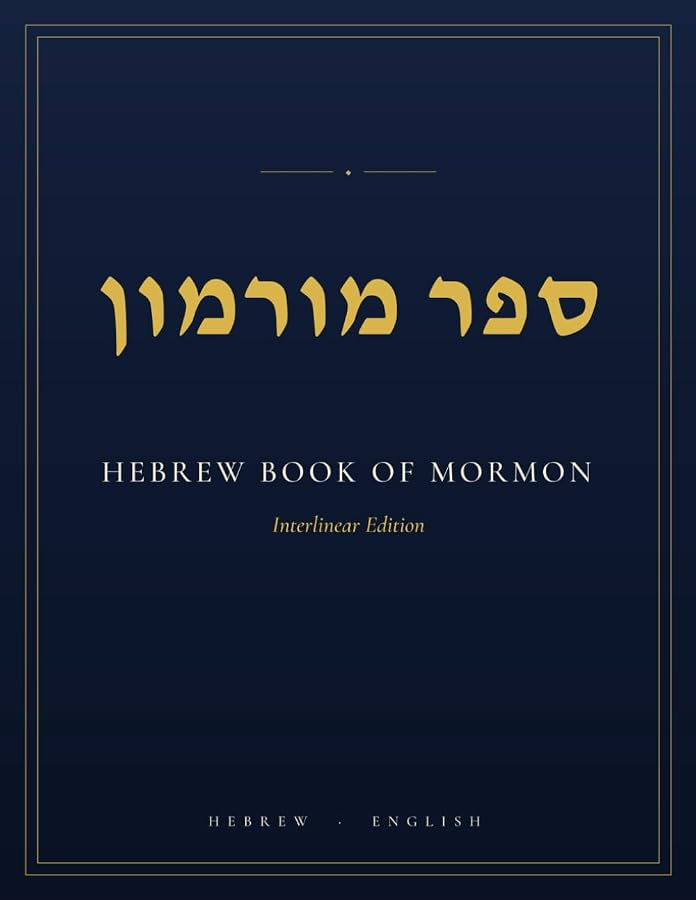
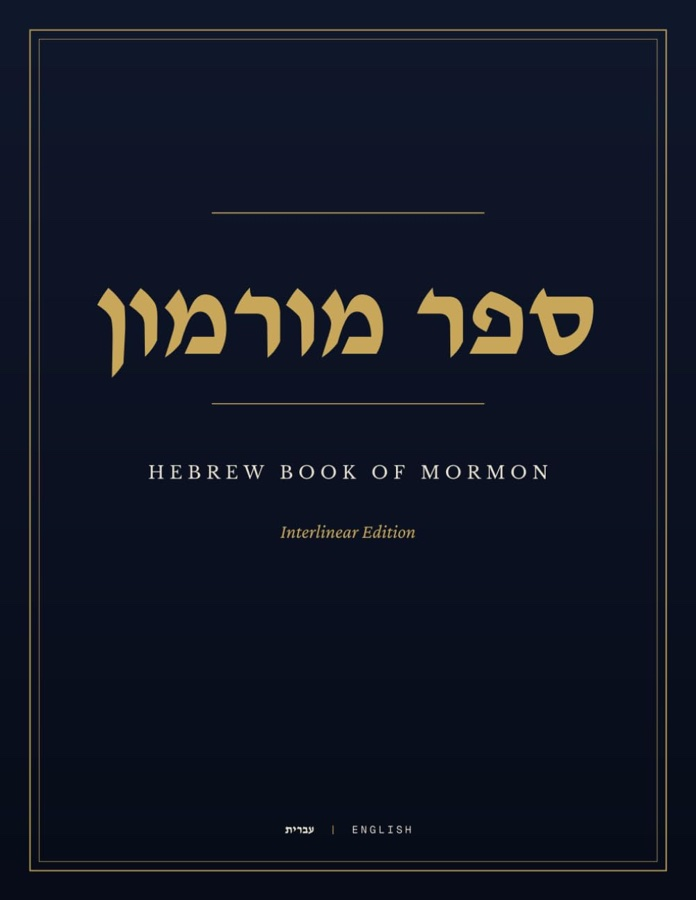
In Print: the Interlinear and Full Hebrew covers from the Amazon listings
The two fronts changed on Amazon (Interlinear: new title rules and the
עברית | ENGLISH foot; Full Hebrew: the scroll-book logo). Both taken from
the listing images at the site's 900px height; the Dual and Triple fronts
match the listings already and are untouched. Cache versions bumped in
editions.js, the service worker's precache list, and on the six page heads
whose share image is a cover.

diff --git a/in-print.html b/in-print.html
@@ -22,7 +22,7 @@ html.sw-in-app .landing-update-note { display: none; }
 <meta property="og:title" content="Sefer Mormon in Print — the Hebrew Book of Mormon editions">
 <meta property="og:description" content="Five printed editions of the Hebrew Book of Mormon: interlinear, full Hebrew, footnote hardcover, dual language, and the triple combination.">
 <meta property="og:type" content="website">
-<meta property="og:image" content="https://sefermormon.com/bom/images/cover-interlinear.jpg">
+<meta property="og:image" content="https://sefermormon.com/bom/images/cover-interlinear.jpg?v=6">
 <meta property="og:site_name" content="Hebrew Interlinear Standard Works">
 <style>
 /* One long page, no reader chrome. The cards are .ed-* in reader.css. */
@@ -55,7 +55,7 @@ html.sw-in-app .landing-update-note { display: none; }
       </p>
 
 <!-- editions:start (generated from editions.js by tools/build_static_pages.js — do not edit) -->
-<div class="ed-grid"><a class="ed-card" href="https://www.amazon.com/dp/B0GVZFM6YR" target="_blank" rel="noopener"><span class="ed-cover"><img src="bom/images/cover-interlinear.jpg?v=5" alt="Hebrew Book of Mormon Interlinear Edition" width="696" height="900" loading="lazy"></span><span class="ed-title">Interlinear Edition</span><span class="ed-format">Softcover · 8.5 × 11 in</span><span class="ed-blurb">The whole Book of Mormon with its English gloss set under every Hebrew word, two columns to a large page. The edition this site’s interlinear view is printed from.</span><span class="ed-buy">Buy on Amazon →</span></a><a class="ed-card" href="https://www.amazon.com/dp/B0DVTJC9HJ" target="_blank" rel="noopener"><span class="ed-cover"><img src="bom/images/cover-hebrew.jpg?v=5" alt="Hebrew Book of Mormon" width="600" height="900" loading="lazy"></span><span class="ed-title">Full Hebrew Edition</span><span class="ed-format">Softcover · 6 × 9 in</span><span class="ed-blurb">The Hebrew text alone, pointed, verse by verse, in a reader’s volume. Nothing on the page but the Book of Mormon in the Hebrew of the prophets.</span><span class="ed-buy">Buy on Amazon →</span></a><a class="ed-card" href="https://www.lulu.com/shop/christopher-lambe/%D7%A1%D7%A4%D7%A8-%D7%9E%D7%95%D7%A8%D7%9E%D7%95%D7%9F/hardcover/product-2m87weq.html" target="_blank" rel="noopener"><span class="ed-cover"><img src="bom/images/cover-hardcover.jpg?v=3" alt="Hebrew Book of Mormon, footnote edition — blue linen hardcover with dust jacket" width="578" height="900" loading="lazy"></span><span class="ed-title">Footnote Edition</span><span class="ed-format">Hardcover · Blue linen · Dust jacket</span><span class="ed-blurb">The Hebrew text with the translator’s footnotes, bound in blue linen under a dust jacket. The edition for the shelf.</span><span class="ed-buy">Buy on Lulu →</span></a><a class="ed-card" href="https://www.amazon.com/dp/B0GGQZG9K9" target="_blank" rel="noopener"><span class="ed-cover"><img src="bom/images/cover-dual.jpg?v=2" alt="Dual Language Book of Mormon" width="629" height="900" loading="lazy"></span><span class="ed-title">Dual Language Edition</span><span class="ed-format">Softcover · 7 × 10 in</span><span class="ed-blurb">Hebrew on the left page and the English on the right, verse for verse, for reading the two side by side.</span><span class="ed-buy">Buy on Amazon →</span></a><a class="ed-card" href="https://www.amazon.com/dp/B0H11CV516" target="_blank" rel="noopener"><span class="ed-cover"><img src="bom/images/cover-triple.jpg?v=5" alt="Triple Combination" width="600" height="900" loading="lazy"></span><span class="ed-title">Triple Combination</span><span class="ed-format">Softcover</span><span class="ed-blurb">The Book of Mormon, the Doctrine and Covenants and the Pearl of Great Price in Hebrew, bound as one volume.</span><span class="ed-buy">Buy on Amazon →</span></a></div>
+<div class="ed-grid"><a class="ed-card" href="https://www.amazon.com/dp/B0GVZFM6YR" target="_blank" rel="noopener"><span class="ed-cover"><img src="bom/images/cover-interlinear.jpg?v=6" alt="Hebrew Book of Mormon Interlinear Edition" width="696" height="900" loading="lazy"></span><span class="ed-title">Interlinear Edition</span><span class="ed-format">Softcover · 8.5 × 11 in</span><span class="ed-blurb">The whole Book of Mormon with its English gloss set under every Hebrew word, two columns to a large page. The edition this site’s interlinear view is printed from.</span><span class="ed-buy">Buy on Amazon →</span></a><a class="ed-card" href="https://www.amazon.com/dp/B0DVTJC9HJ" target="_blank" rel="noopener"><span class="ed-cover"><img src="bom/images/cover-hebrew.jpg?v=6" alt="Hebrew Book of Mormon" width="600" height="900" loading="lazy"></span><span class="ed-title">Full Hebrew Edition</span><span class="ed-format">Softcover · 6 × 9 in</span><span class="ed-blurb">The Hebrew text alone, pointed, verse by verse, in a reader’s volume. Nothing on the page but the Book of Mormon in the Hebrew of the prophets.</span><span class="ed-buy">Buy on Amazon →</span></a><a class="ed-card" href="https://www.lulu.com/shop/christopher-lambe/%D7%A1%D7%A4%D7%A8-%D7%9E%D7%95%D7%A8%D7%9E%D7%95%D7%9F/hardcover/product-2m87weq.html" target="_blank" rel="noopener"><span class="ed-cover"><img src="bom/images/cover-hardcover.jpg?v=3" alt="Hebrew Book of Mormon, footnote edition — blue linen hardcover with dust jacket" width="578" height="900" loading="lazy"></span><span class="ed-title">Footnote Edition</span><span class="ed-format">Hardcover · Blue linen · Dust jacket</span><span class="ed-blurb">The Hebrew text with the translator’s footnotes, bound in blue linen under a dust jacket. The edition for the shelf.</span><span class="ed-buy">Buy on Lulu →</span></a><a class="ed-card" href="https://www.amazon.com/dp/B0GGQZG9K9" target="_blank" rel="noopener"><span class="ed-cover"><img src="bom/images/cover-dual.jpg?v=2" alt="Dual Language Book of Mormon" width="629" height="900" loading="lazy"></span><span class="ed-title">Dual Language Edition</span><span class="ed-format">Softcover · 7 × 10 in</span><span class="ed-blurb">Hebrew on the left page and the English on the right, verse for verse, for reading the two side by side.</span><span class="ed-buy">Buy on Amazon →</span></a><a class="ed-card" href="https://www.amazon.com/dp/B0H11CV516" target="_blank" rel="noopener"><span class="ed-cover"><img src="bom/images/cover-triple.jpg?v=5" alt="Triple Combination" width="600" height="900" loading="lazy"></span><span class="ed-title">Triple Combination</span><span class="ed-format">Softcover</span><span class="ed-blurb">The Book of Mormon, the Doctrine and Covenants and the Pearl of Great Price in Hebrew, bound as one volume.</span><span class="ed-buy">Buy on Amazon →</span></a></div>
 <script type="application/ld+json">{"@context":"https://schema.org","@type":"ItemList","name":"Sefer Mormon in print","url":"https://sefermormon.com/in-print.html","itemListElement":[{"@type":"ListItem","position":1,"item":{"@type":"Book","name":"Hebrew Book of Mormon: Interlinear Edition","alternateName":"Sefer Mormon — Interlinear Edition","author":{"@type":"Person","name":"Chris Lambe"},"inLanguage":"he","bookFormat":"https://schema.org/Paperback","image":"https://sefermormon.com/bom/images/cover-interlinear.jpg","url":"https://www.amazon.com/dp/B0GVZFM6YR","offers":{"@type":"Offer","url":"https://www.amazon.com/dp/B0GVZFM6YR","availability":"https://schema.org/InStock","seller":{"@type":"Organization","name":"Amazon"}}}},{"@type":"ListItem","position":2,"item":{"@type":"Book","name":"Sefer Mormon: the Book of Mormon in Hebrew","alternateName":"Sefer Mormon — Full Hebrew Edition","author":{"@type":"Person","name":"Chris Lambe"},"inLanguage":"he","bookFormat":"https://schema.org/Paperback","image":"https://sefermormon.com/bom/images/cover-hebrew.jpg","url":"https://www.amazon.com/dp/B0DVTJC9HJ","offers":{"@type":"Offer","url":"https://www.amazon.com/dp/B0DVTJC9HJ","availability":"https://schema.org/InStock","seller":{"@type":"Organization","name":"Amazon"}}}},{"@type":"ListItem","position":3,"item":{"@type":"Book","name":"Sefer Mormon: Footnote Edition, blue linen hardcover","alternateName":"Sefer Mormon — Footnote Edition","author":{"@type":"Person","name":"Chris Lambe"},"inLanguage":"he","bookFormat":"https://schema.org/Hardcover","image":"https://sefermormon.com/bom/images/cover-hardcover.jpg","url":"https://www.lulu.com/shop/christopher-lambe/%D7%A1%D7%A4%D7%A8-%D7%9E%D7%95%D7%A8%D7%9E%D7%95%D7%9F/hardcover/product-2m87weq.html","offers":{"@type":"Offer","url":"https://www.lulu.com/shop/christopher-lambe/%D7%A1%D7%A4%D7%A8-%D7%9E%D7%95%D7%A8%D7%9E%D7%95%D7%9F/hardcover/product-2m87weq.html","availability":"https://schema.org/InStock","seller":{"@type":"Organization","name":"Lulu"}}}},{"@type":"ListItem","position":4,"item":{"@type":"Book","name":"Sefer Mormon: Dual Language Edition, Hebrew and English","alternateName":"Sefer Mormon — Dual Language Edition","author":{"@type":"Person","name":"Chris Lambe"},"inLanguage":"he","bookFormat":"https://schema.org/Paperback","image":"https://sefermormon.com/bom/images/cover-dual.jpg","url":"https://www.amazon.com/dp/B0GGQZG9K9","offers":{"@type":"Offer","url":"https://www.amazon.com/dp/B0GGQZG9K9","availability":"https://schema.org/InStock","seller":{"@type":"Organization","name":"Amazon"}}}},{"@type":"ListItem","position":5,"item":{"@type":"Book","name":"Sefer Mormon: Triple Combination in Hebrew","alternateName":"Sefer Mormon — Triple Combination","author":{"@type":"Person","name":"Chris Lambe"},"inLanguage":"he","bookFormat":"https://schema.org/Paperback","image":"https://sefermormon.com/bom/images/cover-triple.jpg","url":"https://www.amazon.com/dp/B0H11CV516","offers":{"@type":"Offer","url":"https://www.amazon.com/dp/B0H11CV516","availability":"https://schema.org/InStock","seller":{"@type":"Organization","name":"Amazon"}}}}]}</script>
 <!-- editions:end -->
 

diff --git a/bom/bom.html b/bom/bom.html
@@ -13,14 +13,14 @@
 <meta name="description" content="The Hebrew Book of Mormon, read online: the whole Book of Mormon in pre-exilic Classical Biblical Hebrew with word-by-word English glosses, transliteration and roots. Sefer Mormon, the interlinear edition.">
 <meta property="og:title" content="Hebrew Book of Mormon — Sefer Mormon Interlinear">
 <meta property="og:description" content="The whole Book of Mormon in pre-exilic Classical Biblical Hebrew, every word with its English gloss, transliteration and root.">
-<meta property="og:image" content="https://sefermormon.com/bom/images/cover-interlinear.jpg">
+<meta property="og:image" content="https://sefermormon.com/bom/images/cover-interlinear.jpg?v=6">
 <meta property="og:url" content="https://sefermormon.com/bom/bom.html">
 <meta property="og:type" content="book">
 <meta property="og:site_name" content="Sefer Mormon">
 <meta name="twitter:card" content="summary_large_image">
 <meta name="twitter:title" content="Sefer Mormon — Hebrew Interlinear Book of Mormon">
 <meta name="twitter:description" content="Classical Biblical Hebrew Book of Mormon with interlinear English glosses and transliteration.">
-<meta name="twitter:image" content="https://sefermormon.com/bom/images/cover-interlinear.jpg">
+<meta name="twitter:image" content="https://sefermormon.com/bom/images/cover-interlinear.jpg?v=6">
 <script type="application/ld+json">
 {
   "@context": "https://schema.org",
@@ -30,7 +30,7 @@
   "author": { "@type": "Person", "name": "Chris Lambe" },
   "inLanguage": "he",
   "bookFormat": "https://schema.org/EBook",
-  "image": "https://sefermormon.com/bom/images/cover-interlinear.jpg",
+  "image": "https://sefermormon.com/bom/images/cover-interlinear.jpg?v=6",
   "url": "https://sefermormon.com/bom/bom.html",
   "sameAs": "https://www.amazon.com/dp/B0GVZFM6YR",
   "identifier": {

diff --git a/editions.js b/editions.js
@@ -10,11 +10,11 @@
   var EDITIONS = [
     { key: 'interlinear', title: 'Interlinear Edition', name: 'Hebrew Book of Mormon: Interlinear Edition',
       format: 'Soft Cover', spec: 'Softcover · 8.5 × 11 in', seller: 'Amazon', href: 'https://www.amazon.com/dp/B0GVZFM6YR',
-      w: 696, h: 900, img: 'cover-interlinear.jpg?v=5', alt: 'Hebrew Book of Mormon Interlinear Edition',
+      w: 696, h: 900, img: 'cover-interlinear.jpg?v=6', alt: 'Hebrew Book of Mormon Interlinear Edition',
       blurb: 'The whole Book of Mormon with its English gloss set under every Hebrew word, two columns to a large page. The edition this site’s interlinear view is printed from.' },
     { key: 'hebrew', title: 'Full Hebrew Edition', name: 'Sefer Mormon: the Book of Mormon in Hebrew',
       format: 'Soft Cover', spec: 'Softcover · 6 × 9 in', seller: 'Amazon', href: 'https://www.amazon.com/dp/B0DVTJC9HJ',
-      w: 600, h: 900, img: 'cover-hebrew.jpg?v=5', alt: 'Hebrew Book of Mormon',
+      w: 600, h: 900, img: 'cover-hebrew.jpg?v=6', alt: 'Hebrew Book of Mormon',
       blurb: 'The Hebrew text alone, pointed, verse by verse, in a reader’s volume. Nothing on the page but the Book of Mormon in the Hebrew of the prophets.' },
     { key: 'footnote', title: 'Footnote Edition', name: 'Sefer Mormon: Footnote Edition, blue linen hardcover',
       format: 'Blue Linen · Dust Jacket', spec: 'Hardcover · Blue linen · Dust jacket', seller: 'Lulu',

diff --git a/bom/sw.js b/bom/sw.js
@@ -4,7 +4,7 @@
     the hook did not touch it (it pointed at scripts/write_build_version.js,
     which does not exist), so the list below had been frozen for days and
     every Book of Mormon asset change was served stale. Never hand-edit. */
-const CACHE = 'bom-2026-09-13T02-45-47';
+const CACHE = 'bom-2026-09-13T02-47-23';
 /** Shell only — verse *.js files are cached at runtime, refreshed in the background (see fetch handler). */
 const ASSETS = [
   './bom.html',
@@ -36,8 +36,8 @@ const ASSETS = [
   './topical_guide.js?v=3',
   './images/cover-dual.jpg?v=2',
   './images/cover-hardcover.jpg?v=3',
-  './images/cover-hebrew.jpg?v=5',
-  './images/cover-interlinear.jpg?v=5',
+  './images/cover-hebrew.jpg?v=6',
+  './images/cover-interlinear.jpg?v=6',
   './images/cover-triple.jpg?v=5'
 ];
 

diff --git a/pgp.html b/pgp.html
@@ -21,7 +21,7 @@
 <meta property="og:url" content="https://sefermormon.com/pgp.html">
 <meta property="og:type" content="book">
 <meta property="og:site_name" content="Sefer Mormon">
-<meta property="og:image" content="https://sefermormon.com/bom/images/cover-hebrew.jpg">
+<meta property="og:image" content="https://sefermormon.com/bom/images/cover-hebrew.jpg?v=6">
 <meta name="theme-color" content="#1B2A41">
 <link rel="apple-touch-icon" href="icons/icon-192.png?v=3">
 <link rel="stylesheet" href="nav_engine.css?v=51">

diff --git a/dc.html b/dc.html
@@ -21,7 +21,7 @@
 <meta property="og:url" content="https://sefermormon.com/dc.html">
 <meta property="og:type" content="book">
 <meta property="og:site_name" content="Sefer Mormon">
-<meta property="og:image" content="https://sefermormon.com/bom/images/cover-hebrew.jpg">
+<meta property="og:image" content="https://sefermormon.com/bom/images/cover-hebrew.jpg?v=6">
 <meta name="theme-color" content="#1B2A41">
 <link rel="apple-touch-icon" href="icons/icon-192.png?v=3">
 <link rel="stylesheet" href="nav_engine.css?v=51">

diff --git a/ot.html b/ot.html
@@ -21,7 +21,7 @@
 <meta property="og:url" content="https://sefermormon.com/ot.html">
 <meta property="og:type" content="book">
 <meta property="og:site_name" content="Sefer Mormon">
-<meta property="og:image" content="https://sefermormon.com/bom/images/cover-hebrew.jpg">
+<meta property="og:image" content="https://sefermormon.com/bom/images/cover-hebrew.jpg?v=6">
 <meta name="theme-color" content="#1B2A41">
 <link rel="apple-touch-icon" href="icons/icon-192.png?v=3">
 <link rel="stylesheet" href="nav_engine.css?v=51">

diff --git a/jst.html b/jst.html
@@ -21,7 +21,7 @@
 <meta property="og:url" content="https://sefermormon.com/jst.html">
 <meta property="og:type" content="book">
 <meta property="og:site_name" content="Sefer Mormon">
-<meta property="og:image" content="https://sefermormon.com/bom/images/cover-hebrew.jpg">
+<meta property="og:image" content="https://sefermormon.com/bom/images/cover-hebrew.jpg?v=6">
 <meta name="theme-color" content="#1B2A41">
 <link rel="apple-touch-icon" href="icons/icon-192.png?v=3">
 <style>

diff --git a/service-worker.js b/service-worker.js
@@ -1,5 +1,5 @@
 /** Replaced on deploy by scripts/write_build_version.js (GITHUB_SHA). */
-const BUILD_ID = '2026-09-13T02-45-47';
+const BUILD_ID = '2026-09-13T02-47-23';
 const CACHE_NAME = 'standard-works-' + BUILD_ID;
 const OFFLINE_CACHE = 'standard-works-offline-v2';
 
